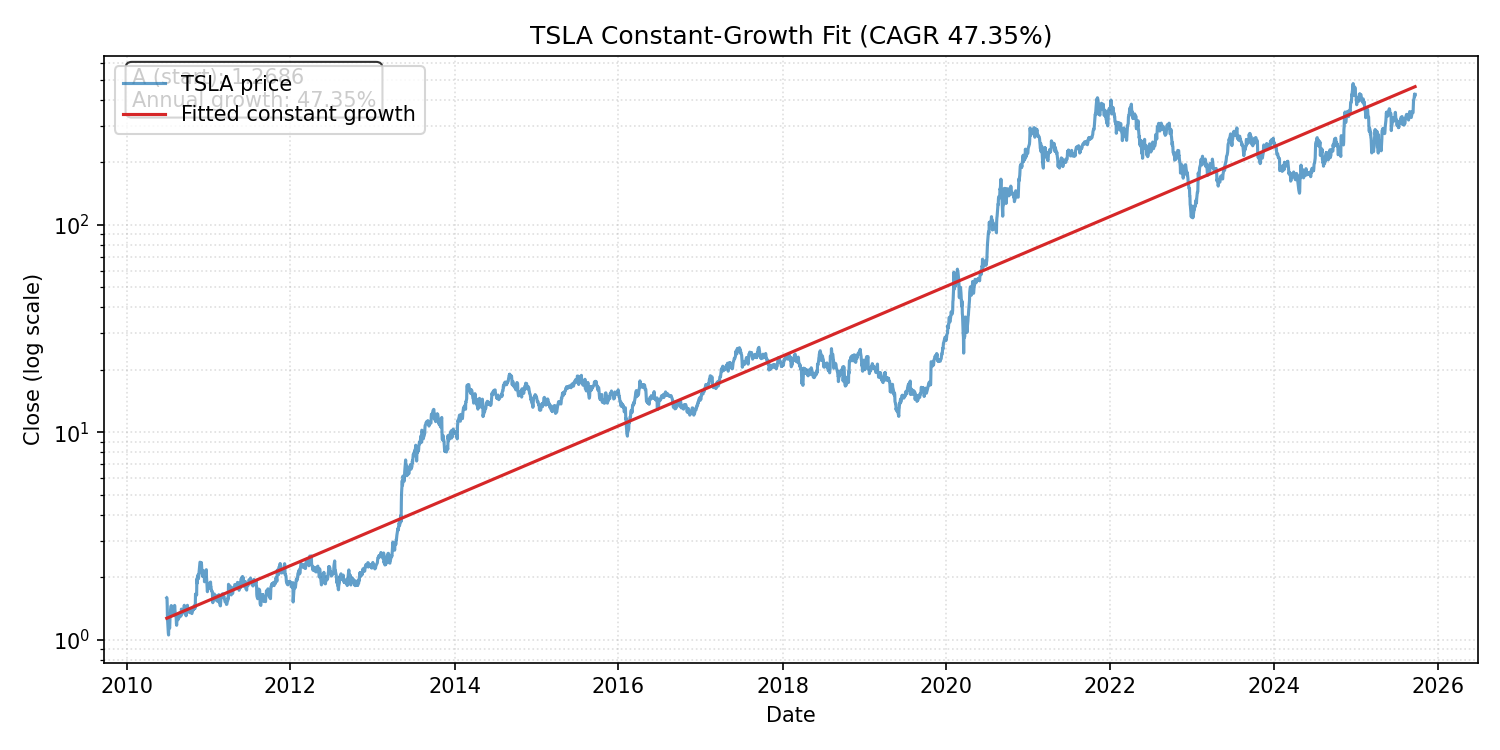
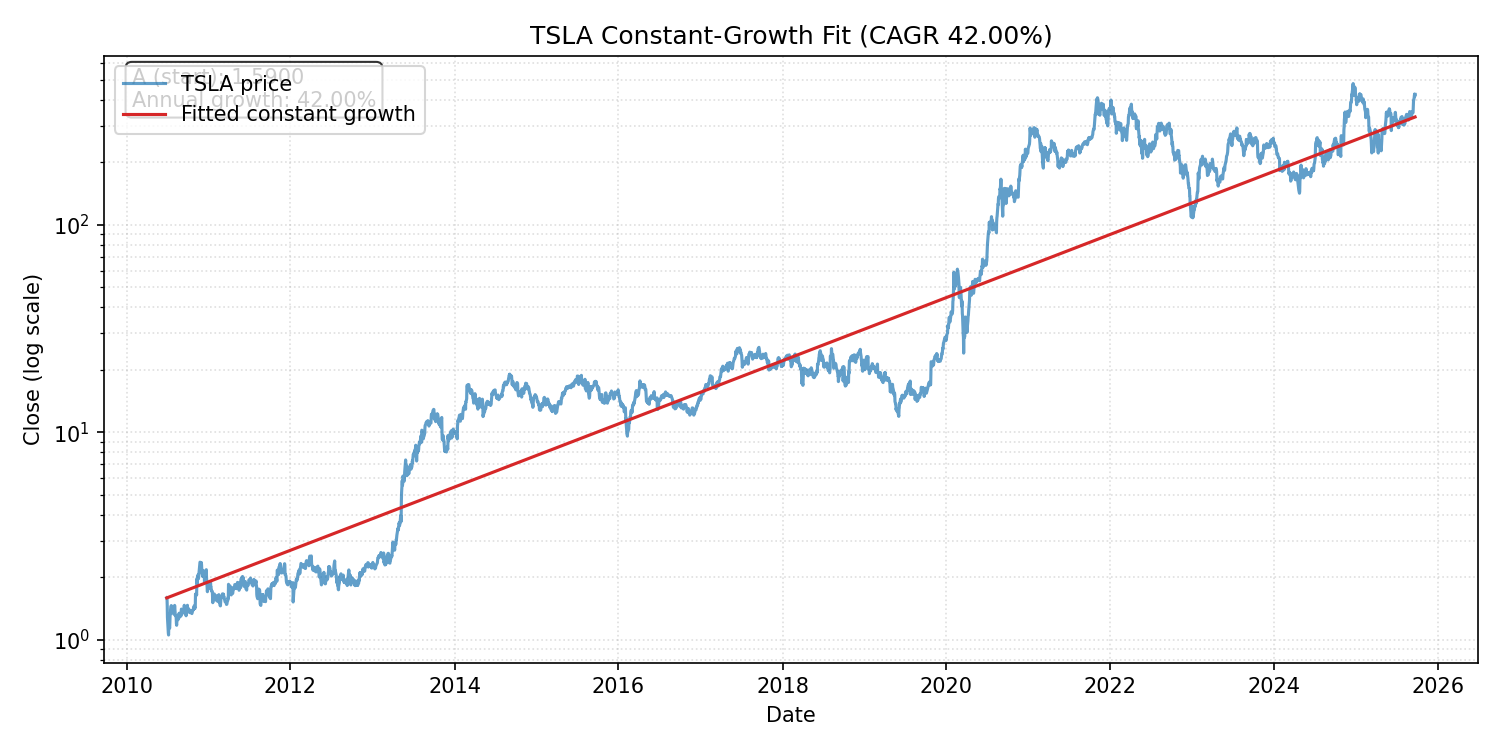
Fix Tesla2x experiment base symbol handling

diff --git a/strategy_tqqq_reserve.py b/strategy_tqqq_reserve.py
@@ -1491,6 +1491,7 @@ EXPERIMENTS["GOOG2X"] = {
     },
     "rebalance_days": 22,
     "leverage_override": 2.0,
+    "base_symbol": "GOOGL",
 }
 EXPERIMENTS["GOOG2x"] = {**EXPERIMENTS["GOOG2X"]}
 
@@ -1540,6 +1541,7 @@ EXPERIMENTS["TESLA2X"] = {
     },
     "rebalance_days": 22,
     "leverage_override": 2.0,
+    "base_symbol": "TSLA",
 }
 EXPERIMENTS["TESLA2x"] = {**EXPERIMENTS["TESLA2X"]}
 
@@ -1601,6 +1603,7 @@ EXPERIMENTS["CRM2X"] = {
     },
     "rebalance_days": 22,
     "leverage_override": 2.0,
+    "base_symbol": "CRM",
 }
 EXPERIMENTS["CRM2x"] = {**EXPERIMENTS["CRM2X"]}
 
@@ -2396,8 +2399,8 @@ def main():
     parser = argparse.ArgumentParser(description="Simulate TQQQ+reserve strategy with temperature & filters")
     parser.add_argument(
         "--base-symbol",
-        default="QQQ",
-        help="Underlying symbol/index used for the leverage sleeve (default QQQ)",
+        default=None,
+        help="Underlying symbol/index used for the leverage sleeve (defaults to the experiment base symbol or QQQ)",
     )
     parser.add_argument(
         "--csv",
@@ -2450,9 +2453,13 @@ def main():
     parser.add_argument("--no-show", action="store_true")
     args = parser.parse_args()
     disable_buy_temp_limit = bool(args.disable_buy_temp_limit)
-    base_symbol = args.base_symbol.upper()
     experiment = args.experiment.upper()
     config = EXPERIMENTS[experiment]
+    if args.base_symbol:
+        base_symbol = args.base_symbol.upper()
+    else:
+        config_base_symbol = config.get("base_symbol")
+        base_symbol = config_base_symbol.upper() if isinstance(config_base_symbol, str) else "QQQ"
 
     # Optional configuration overrides shared across simulation logic
     temp_allocation_cfg = None

diff --git a/symbols/tsla/tsla_TESLA2X.B.2_summary.md b/symbols/tsla/tsla_TESLA2X.B.2_summary.md
@@ -1,0 +1,16 @@
+# TSLA – Strategy TESLA2X.B.2 Summary
+
+- **Span**: 2010-06-29 → 2025-09-19 (15.23 years)
+- **Underlying (TSLA price) CAGR**: 44.35%
+- **Fitted curve CAGR**: 42.00%
+- **Strategy CAGR**: 65.28%
+- **Max drawdown**: -84.01%
+- **Rebalances executed**: 39
+- **P/E ratio (as of 2025-09-21)**: 256.67
+- **PEG ratio (as of 2025-09-21)**: N/A
+- **Current growth rate (as of 2025-09-21)**: -16.30%
+
+Notes:
+
+- Temperatures and anchors per experiment govern deployment; see EXPERIMENTS.md for details.
+- Figures use simulated leveraged sleeve with fees and borrow costs.
